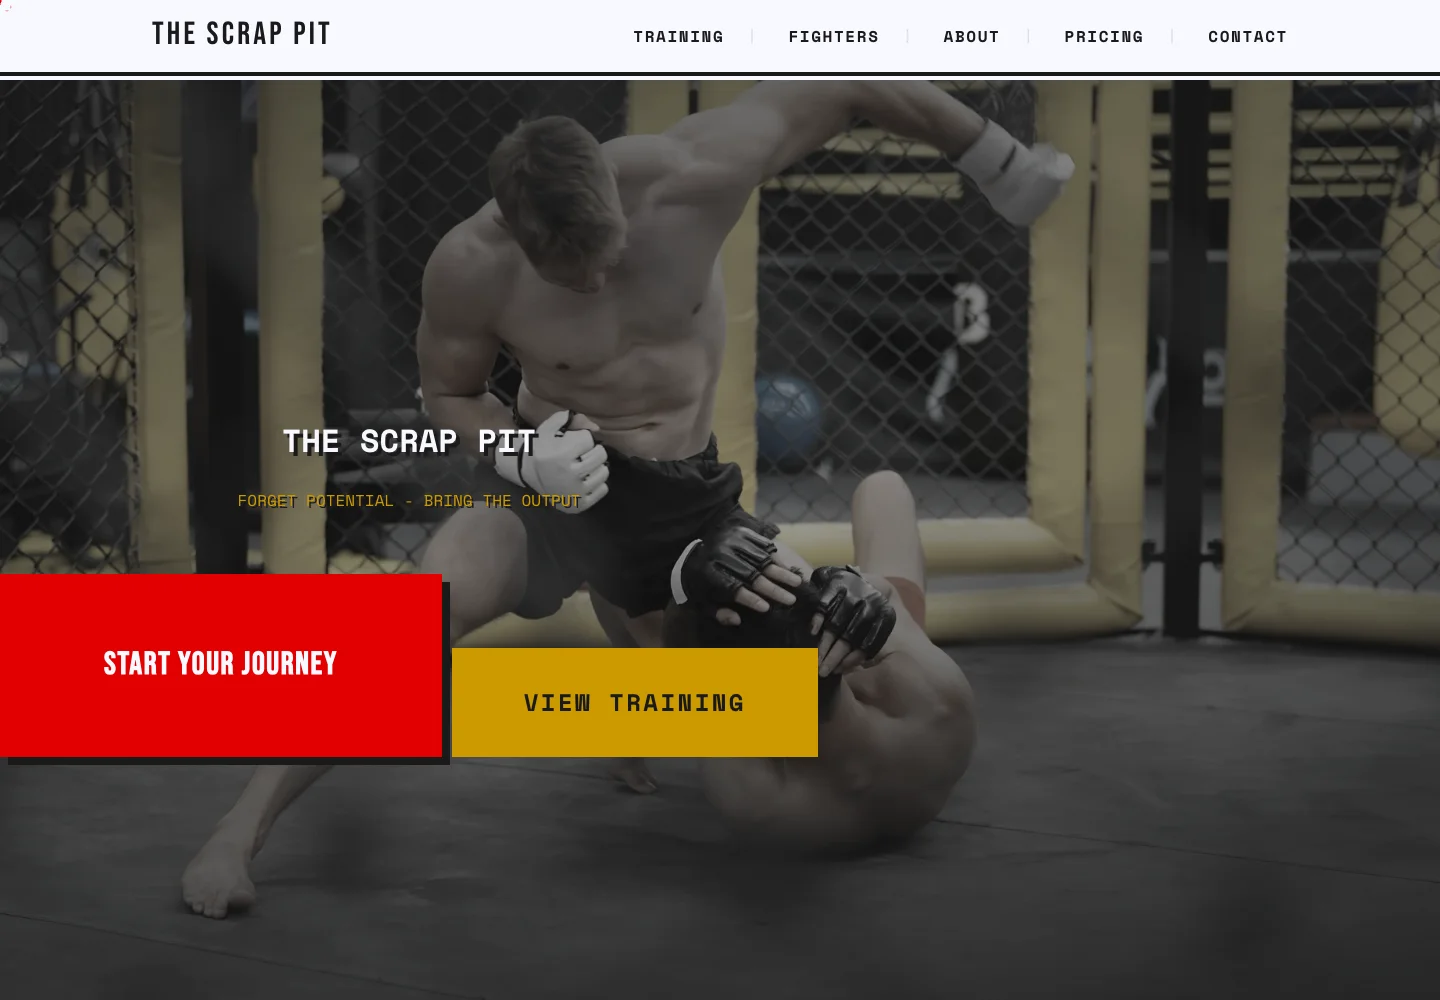
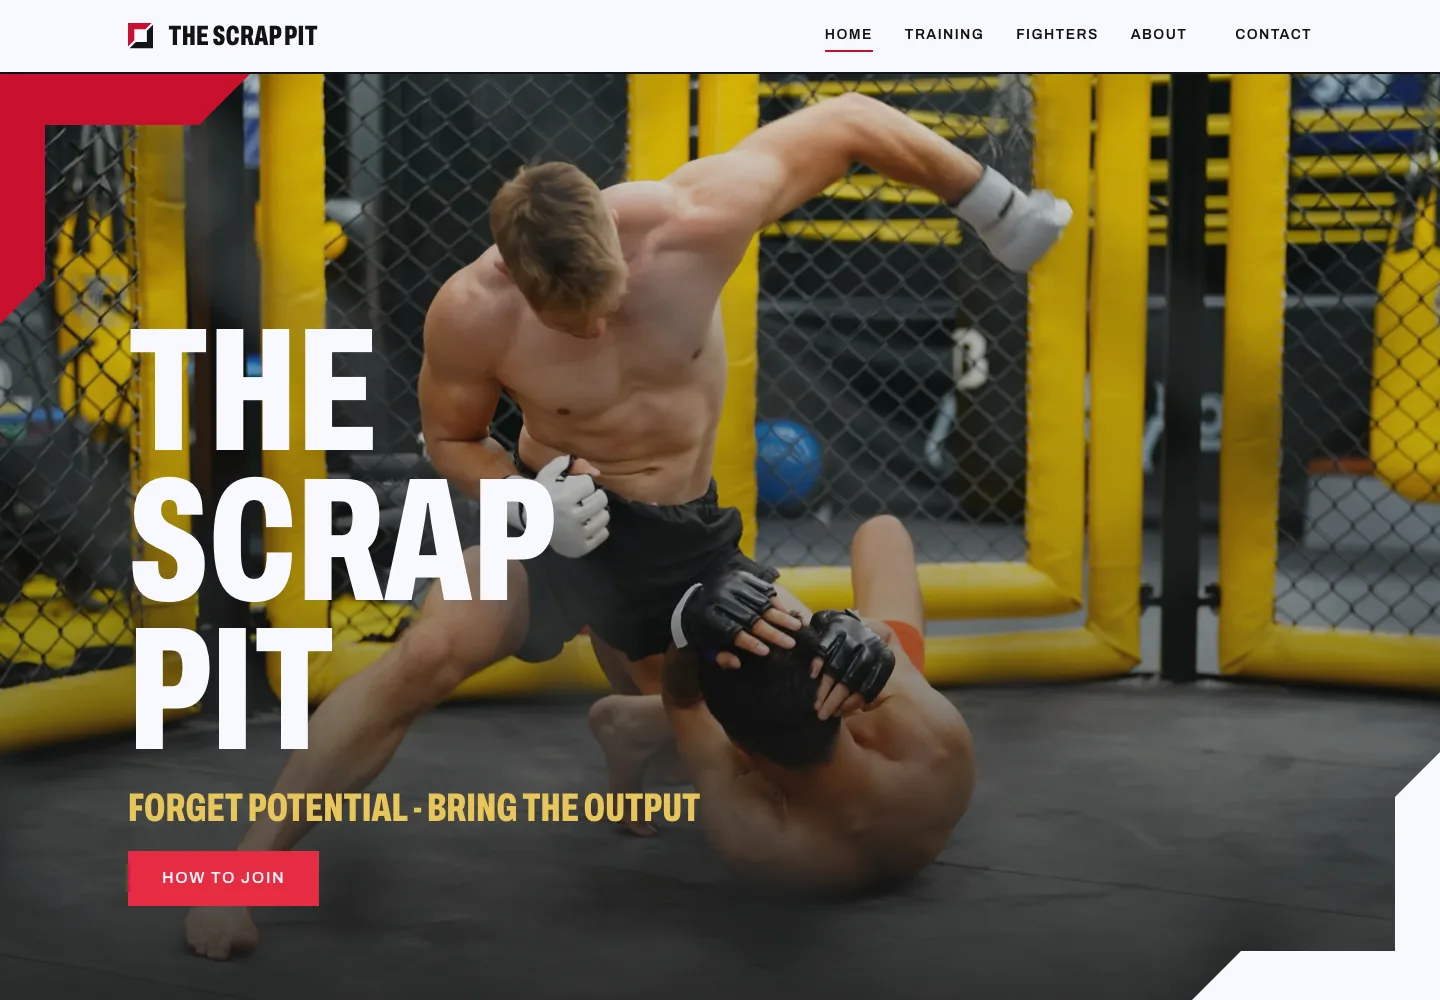
Scrap Pit updates, minimal font size changes.

diff --git a/src/app/globals.css b/src/app/globals.css
@@ -345,7 +345,7 @@ button:disabled {
 }
 .eyebrow {
   color: var(--color-gray-light);
-  font-size: 11px;
+  font-size: 12px;
   font-weight: 500;
   letter-spacing: 0.16em;
   text-transform: uppercase;
@@ -361,6 +361,31 @@ h2 {
 .gallery-section {
   padding-top: var(--section-space-top);
   padding-bottom: var(--section-space);
+}
+/* Two-line statement between Gallery and Contact. Same face, colour and word entrance
+   as the hero title at three-quarter size; no eyebrow, no heading. Its padding is the
+   breathing room between sections 01 and 02, so tune the gap here, not on either. */
+.statement {
+  padding-block: var(--section-space);
+}
+.statement-text {
+  font-size: clamp(42px, 3.9vw, 60px);
+  font-weight: 400;
+  line-height: 1.03;
+  letter-spacing: -0.05em;
+  margin: 0;
+}
+/* The words hold off-stage until the block scrolls into view, then run the hero
+   entrance. Without JS neither class is ever added and the text simply renders. */
+.statement .title-word {
+  animation: none;
+}
+.statement-pending .title-word {
+  opacity: 0;
+  transform: translateX(-50px);
+}
+.statement-visible .title-word {
+  animation: service-entrance 0.8s ease-out var(--word-delay, 0.4s) both;
 }
 .section-intro {
   display: flex;
@@ -447,7 +472,7 @@ h2 {
   gap: 12px;
   margin-top: 24px;
   color: var(--color-gray-light);
-  font-size: 11px;
+  font-size: 12px;
   line-height: 1.5;
 }
 .project-meta span:first-child {
@@ -486,7 +511,7 @@ h2 {
 }
 .project-description {
   color: var(--color-gray-light);
-  font-size: 14px;
+  font-size: 15px;
   line-height: 1.8;
   max-width: 48ch;
   margin: 0;
@@ -951,6 +976,10 @@ legend {
     font-size: 28px;
     letter-spacing: -0.045em;
   }
+  .statement-text {
+    font-size: 22px;
+    letter-spacing: -0.045em;
+  }
   .hero-wordmark {
     font-size: clamp(52px, 13.3vw, 86px);
   }
@@ -979,8 +1008,10 @@ legend {
     aspect-ratio: 1.44;
   }
   .project-meta {
-    font-size: 10px;
     margin-top: 20px;
+  }
+  .project-description {
+    font-size: 14px;
   }
   .project h3 {
     font-size: 28px;

diff --git a/src/components/Gallery.jsx b/src/components/Gallery.jsx
@@ -5,13 +5,13 @@ import Icon from "./Icon";
 import { useEffect, useRef } from "react";
 
 const projects = [
-  { slug: "portage-place", title: "Portage Place", type: "Client build", field: "Community & workspace",
-    url: "https://portageplacesb.com", description: "A welcoming village workspace for a South Bend business community." },
-  { slug: "veilburner", title: "Veilburner", type: "Client build", field: "Music & culture",
+  { slug: "portage-place", title: "Portage Place", type: "Client", field: "Business and office",
+    url: "https://portageplacesb.com", description: "A welcoming workspace for a South Bend business community." },
+  { slug: "veilburner", title: "Veilburner", type: "Client", field: "Blackened metal music",
     url: "https://veilburner.band", description: "An atmospheric presence for an avant-garde metal band." },
-  { slug: "black-lodge-brews", title: "Black Lodge Brews", type: "Demo concept", field: "Hospitality",
+  { slug: "black-lodge-brews", title: "Black Lodge Brews", type: "Concept", field: "Hospitality",
     url: "https://black-lodge-brews.netlify.app", description: "A brewery and taproom concept with a mystical character." },
-  { slug: "the-scrap-pit", title: "The Scrap Pit", type: "Demo concept", field: "Combat sports",
+  { slug: "the-scrap-pit", title: "The Scrap Pit", type: "Concept", field: "Combat sports",
     url: "https://the-scrap-pit.netlify.app", description: "An MMA gym concept built around the intensity of the sport." },
 ];
 
@@ -71,9 +71,7 @@ function Project({ project, index }) {
           onLoad={handleImageSettled} onError={handleImageSettled} />
         <span className="project-visit">Visit live site <Icon name="externalLink" size={16} /></span>
       </div>
-      <div className="project-meta"><span>{project.type}</span>
-      {/* <span>{project.field}</span> */}
-      </div>
+      <div className="project-meta"><span>{project.type}</span><span>{project.field}</span></div>
       <h3>{project.title}
         {/* <span aria-hidden="true">↗</span> */}
         </h3>

diff --git a/src/components/motion/Statement.jsx b/src/components/motion/Statement.jsx
@@ -1,0 +1,41 @@
+"use client";
+
+import { useEffect, useRef } from "react";
+
+// The hero's word entrance runs from page load, which is fine above the fold. Down
+// here it would have finished long before anyone scrolled to it, so the same motion
+// waits for the block to enter the viewport — the Gallery cards use the same gate.
+//
+// Delays are positional (line, word) so the two-line rhythm matches the hero:
+// first word leads, second word lands late; the ampersand line comes in tighter.
+const delays = [[0.4, 1.4], [0.7, 1.2]];
+
+export default function Statement({ lines }) {
+  const ref = useRef(null);
+
+  useEffect(() => {
+    const element = ref.current;
+    if (window.matchMedia("(prefers-reduced-motion: reduce)").matches || !window.IntersectionObserver) return;
+    element.classList.add("statement-pending");
+    const observer = new IntersectionObserver(([entry]) => {
+      if (entry.isIntersecting) {
+        element.classList.remove("statement-pending");
+        element.classList.add("statement-visible");
+        observer.disconnect();
+      }
+    }, { threshold: 0.4 });
+    observer.observe(element);
+    return () => observer.disconnect();
+  }, []);
+
+  return <section ref={ref} className="statement page-width" aria-label={lines.join(" ")}>
+    <p className="statement-text" aria-hidden="true">
+      {lines.map((line, lineIndex) => <span className="title-line" key={line}>
+        {line.split(" ").map((word, index, words) => <span key={`${word}-${index}`}
+          className="title-word" style={{ "--word-delay": `${delays[lineIndex]?.[index] ?? 0.4}s` }}>
+          {word}{index < words.length - 1 ? " " : ""}
+        </span>)}
+      </span>)}
+    </p>
+  </section>;
+}

diff --git a/src/app/page.jsx b/src/app/page.jsx
@@ -1,5 +1,6 @@
 import HeroWordmark from "../components/motion/HeroWordmark";
 import SplitTextReveal from "../components/motion/SplitTextReveal";
+import Statement from "../components/motion/Statement";
 import Gallery from "../components/Gallery";
 import Contact from "../components/Contact";
 import ScrollBrand from "../components/ScrollBrand";
@@ -16,6 +17,7 @@ export default function Home() {
         </div>
       </section>
       <Gallery />
+      <Statement lines={["custom built", "& venturesome"]} />
       <Contact />
     </main>
     <ScrollBrand />

diff --git a/ROADMAP.md b/ROADMAP.md
@@ -231,4 +231,3 @@ desktop/mobile display sizes.
 
 ___
 
-
